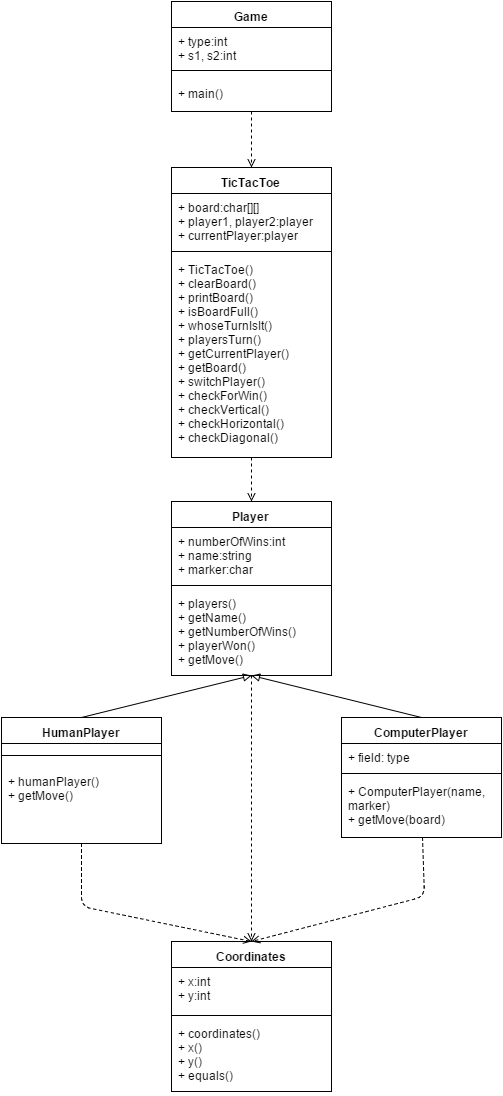
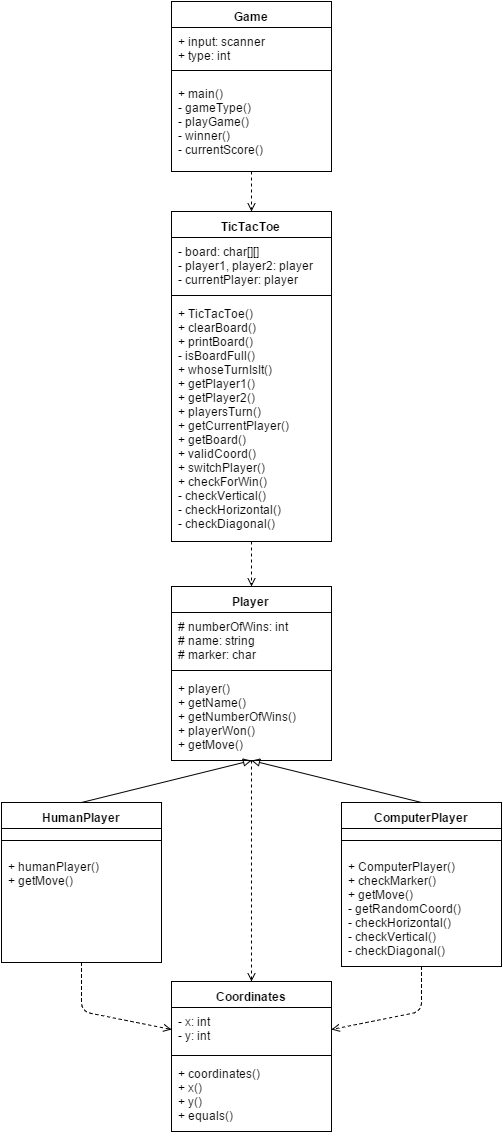
changing diagram photo + fixing .md files

diff --git a/docs/Administration_manual.md b/docs/Administration_manual.md
@@ -1,13 +1,10 @@
-##How to set the program up and get it to run on a fresh machine.
-
-##### 1. You will need to install these programs
-	* Git - Here is a guide https://help.github.com/articles/set-up-git/
-	* Java JDK - Here is a guide http://docs.oracle.com/javase/7/docs/webnotes/install/windows/jdk-installation-windows.html
-	* Gradle - Here is a guide https://docs.gradle.org/current/userguide/installation.html __Attention:__This is not needed because we have Gradle Wrapper already in our project, however you will need to write the following command to make the wrapper executable after cloning: chmod +x gradlew
-
-
-##### 2. How to run the program
-	* Use the following command to clone the repository to your computer - git clone https://github.com/T-303-HUGB/TicTacToe.git
-	* To make the scripts executable write the following: cd bin "press enter, then write" chmod +x *
-	* Write this in the command line to install the program: sh ./bin/package
-	* To run the program write sh ./bin/run
+##How to set the program up and get it to run on a fresh machine.  
+#### 1. You will need to install these programs  
+	* Git - Here is a guide https://help.github.com/articles/set-up-git/  
+	* Java JDK - Here is a guide http://docs.oracle.com/javase/7/docs/webnotes/install/windows/jdk-installation-windows.html  
+	* Gradle - Here is a guide https://docs.gradle.org/current/userguide/installation.html __Attention:__This is not needed because we have Gradle Wrapper already in our project, however you will need to write the following command to make the wrapper executable after cloning: chmod +x gradlew  
+#### 2. How to run the program  
+	* Use the following command to clone the repository to your computer - git clone https://github.com/T-303-HUGB/TicTacToe.git  
+	* To make the scripts executable write the following: cd bin "press enter, then write" chmod +x *  
+	* Write this in the command line to install the program: sh ./bin/package  
+	* To run the program write sh ./bin/run  

diff --git a/README.md b/README.md
@@ -1,5 +1,10 @@
 [![Build Status](https://travis-ci.org/T-303-HUGB/TicTacToe.svg?branch=master)](https://travis-ci.org/T-303-HUGB/TicTacToe)
 [![Build Status](https://scan.coverity.com/projects/6854/badge.svg)](https://scan.coverity.com/projects/t-303-hugb-tictactoe)
+[![Codacy Badge](https://api.codacy.com/project/badge/grade/91c48625d5794b5fb24d700fd3390813)](https://www.codacy.com/app/T-303-HUGB/TicTacToe/dashboard)
 
 # TicTacToe
 Late-term Assignment for HUGB.
+
+Files related to the project can be found in the folder __docs__.
+
+

diff --git a/docs/Design_report.md b/docs/Design_report.md
@@ -7,6 +7,9 @@ The game will be coded using Sublime Text and Github will be used as source cont
 ## Class diagram
 ![alt text](https://github.com/T-303-HUGB/TicTacToe/blob/master/docs/ClassDiagramTicTacToe.png "TicTacToe class diagram")
 
+## How the game works
+
+
 ## Programming Rules
 ### 1. Indentation
 A single tab should be used as the unit of indentation.
